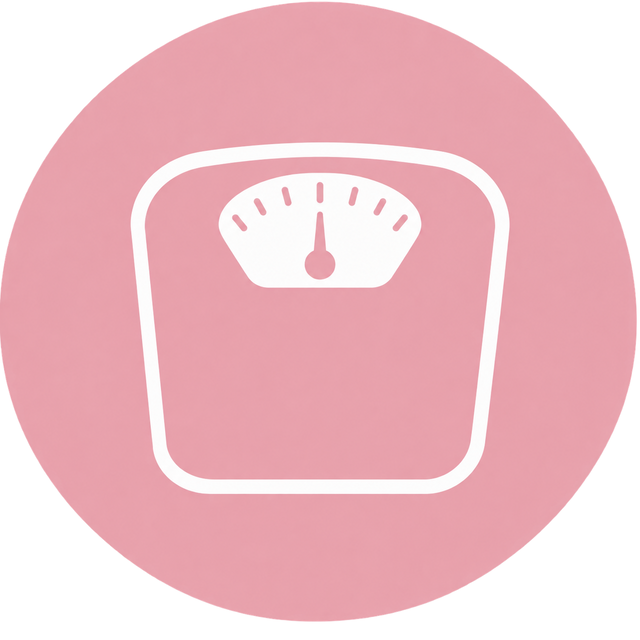
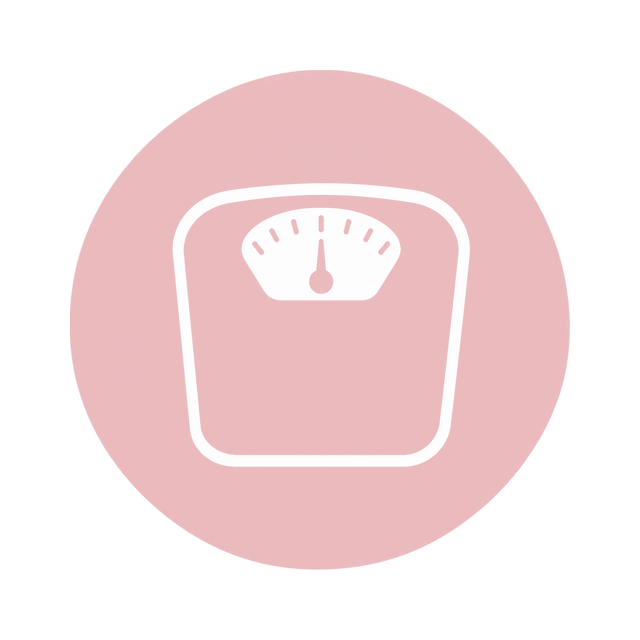
feat: 首頁第四張卡片改為 SPARK SCALE，調整下載頁 App 順序
- 首頁 SPARK SHAPE 卡片改為 SPARK SCALE
- SPARK SCALE 圖示改為白底、霧粉色，對齊其他 App
- 下載頁順序：WEAR、TENKI OUTFIT、SCALE、LIST、LOG、SHAPE、PLATE、DAY LIGHT

diff --git a/apps.html b/apps.html
@@ -214,80 +214,10 @@
       </div>
     </article>
 
-    <!-- SPARK SHAPE -->
-    <article class="app-entry" id="spark-shape">
-      <div class="app-entry__icon">
-        <img src="images/icon-spark-shape.png" alt="SPARK SHAPE 圖示" loading="lazy">
-      </div>
-      <div class="app-entry__body">
-        <h2 class="app-entry__name">SPARK SHAPE</h2>
-        <p class="app-entry__name-zh">心動曲線</p>
-        <div class="app-entry__controls">
-          <button class="app-drop__trigger" data-target="ss-story">背景故事 <svg viewBox="0 0 24 24" fill="none" aria-hidden="true"><path d="M6 9l6 6 6-6" stroke="currentColor" stroke-width="1.4" stroke-linecap="round" stroke-linejoin="round"/></svg></button>
-          <button class="app-drop__trigger" data-target="ss-feat">APP 亮點 <svg viewBox="0 0 24 24" fill="none" aria-hidden="true"><path d="M6 9l6 6 6-6" stroke="currentColor" stroke-width="1.4" stroke-linecap="round" stroke-linejoin="round"/></svg></button>
-          <button class="app-drop__trigger" data-target="ss-how">操作說明 <svg viewBox="0 0 24 24" fill="none" aria-hidden="true"><path d="M6 9l6 6 6-6" stroke="currentColor" stroke-width="1.4" stroke-linecap="round" stroke-linejoin="round"/></svg></button>
-          <button class="app-drop__trigger" data-target="ss-screens">照片預覽 <svg viewBox="0 0 24 24" fill="none" aria-hidden="true"><path d="M6 9l6 6 6-6" stroke="currentColor" stroke-width="1.4" stroke-linecap="round" stroke-linejoin="round"/></svg></button>
-          <a class="btn btn--download" href="https://drive.google.com/file/d/18k-2Ujq7NO5MSxU4GRnxtRjazRJaKm2D/view?usp=drive_link" target="_blank" rel="noopener">下載 <svg class="btn__icon btn__icon--arrow" viewBox="0 0 24 24" fill="none" aria-hidden="true"><path d="M12 5v14M12 19l-6-6M12 19l6-6" stroke="currentColor" stroke-width="1.4" stroke-linecap="round" stroke-linejoin="round"/></svg></a>
-        </div>
-        <div class="app-drop__panel" id="ss-story">
-          <p>隨著年紀增長，代謝逐漸趨緩，加上生活中上有老下有小，工作壓力接踵而至，體重管理似乎成了這階段最大的挑戰。</p>
-          <p>為了紀錄努力的痕跡，我一直有拍攝身形紀錄的習慣，但我發現，單純的照片散落在手機相冊裡，很難精確看出變化。如果有一個專屬的工具，能讓我把這些紀錄像日記一樣管理，甚至能直接「並排對比」，那該有多好？</p>
-          <p>於是，SPARK SHAPE 誕生了。</p>
-          <p>「看見進步，是堅持下去最好的動力。」</p>
-          <p>現在，我不再需要憑感覺猜測，只要叫出相簿，過去與現在的對比一覽無遺。這種清晰的軌跡，讓我更有動力去面對生活中的每一項挑戰。</p>
-        </div>
-        <div class="app-drop__panel" id="ss-feat">
-          <ul class="app-entry__features">
-            <li><strong>身形紀錄：</strong>定期拍攝並建檔，記錄下每一刻的身形變化。</li>
-            <li><strong>並排對比：</strong>透過系統化的對比功能，讓進步一目了然。</li>
-            <li><strong>精準比較：</strong>支援「正面對正面」、「側面對側面」的專業級比對，確保對比基準一致。</li>
-            <li><strong>局部細節：</strong>支援照片拉大、縮小，讓你能精準檢視局部的細微變化。</li>
-            <li><strong>隱私與安全：</strong>專屬的隱私儲存空間，讓你能安心記錄身體的每一個階段。</li>
-          </ul>
-        </div>
-        <div class="app-drop__panel" id="ss-how">
-          <ol class="app-how__steps">
-            <li><strong>拍攝紀錄：</strong>點選「新增」，拍攝下當下的身形照。</li>
-            <li><strong>輔助對位：</strong>使用內建的「對準框」功能，確保每次拍攝的角度與位置一致。</li>
-            <li><strong>時間軸管理：</strong>儲存後 APP 會自動整理成時間軸，進入「對比」模式即可進行並排比較。</li>
-            <li><strong>回顧與激勵：</strong>定期瀏覽進化後的對比圖，看見自己的努力，為下一個階段注入滿滿動力。</li>
-          </ol>
-        </div>
-        <div class="app-drop__panel" id="ss-screens">
-        <div class="app-screenshots">
-          <div class="app-screen">
-            <div class="app-screen__frame">
-              <div class="app-screen__body">
-                <img src="images/screen-spark-shape-1.jpg" alt="SPARK SHAPE 身材數據畫面" loading="lazy" style="width:100%;height:100%;object-fit:cover;display:block;">
-              </div>
-            </div>
-            <span class="app-screen__label">身材數據</span>
-          </div>
-          <div class="app-screen">
-            <div class="app-screen__frame">
-              <div class="app-screen__body">
-                <img src="images/screen-spark-shape-2.jpg" alt="SPARK SHAPE 身形時間軸畫面" loading="lazy" style="width:100%;height:100%;object-fit:cover;display:block;">
-              </div>
-            </div>
-            <span class="app-screen__label">身形時間軸</span>
-          </div>
-          <div class="app-screen">
-            <div class="app-screen__frame">
-              <div class="app-screen__body">
-                <img src="images/screen-spark-shape-3.jpg" alt="SPARK SHAPE 前後對比畫面" loading="lazy" style="width:100%;height:100%;object-fit:cover;display:block;">
-              </div>
-            </div>
-            <span class="app-screen__label">前後對比</span>
-          </div>
-        </div>
-        </div>
-      </div>
-    </article>
-
     <!-- SPARK SCALE -->
     <article class="app-entry" id="spark-fit">
       <div class="app-entry__icon">
-        <img src="images/icon-spark-scale.png" alt="SPARK SCALE 圖示" loading="lazy">
+        <img src="images/icon-spark-scale.png?v=2" alt="SPARK SCALE 圖示" loading="lazy">
       </div>
       <div class="app-entry__body">
         <h2 class="app-entry__name">SPARK SCALE</h2>
@@ -353,67 +283,69 @@
       </div>
     </article>
 
-    <!-- SPARK PLATE -->
-    <article class="app-entry" id="spark-plate">
+    <!-- SPARK LIST -->
+    <article class="app-entry" id="spark-list">
       <div class="app-entry__icon">
-        <img src="images/icon-spark-plate.png" alt="SPARK PLATE 圖示" loading="lazy">
+        <img src="images/icon-spark-list.png" alt="SPARK LIST 圖示" loading="lazy">
       </div>
       <div class="app-entry__body">
-        <h2 class="app-entry__name">SPARK PLATE</h2>
-        <p class="app-entry__name-zh">心動餐盤</p>
+        <h2 class="app-entry__name">SPARK LIST</h2>
+        <p class="app-entry__name-zh">心動清單</p>
         <div class="app-entry__controls">
-          <button class="app-drop__trigger" data-target="sp-story">背景故事 <svg viewBox="0 0 24 24" fill="none" aria-hidden="true"><path d="M6 9l6 6 6-6" stroke="currentColor" stroke-width="1.4" stroke-linecap="round" stroke-linejoin="round"/></svg></button>
-          <button class="app-drop__trigger" data-target="sp-feat">APP 亮點 <svg viewBox="0 0 24 24" fill="none" aria-hidden="true"><path d="M6 9l6 6 6-6" stroke="currentColor" stroke-width="1.4" stroke-linecap="round" stroke-linejoin="round"/></svg></button>
-          <button class="app-drop__trigger" data-target="sp-how">操作說明 <svg viewBox="0 0 24 24" fill="none" aria-hidden="true"><path d="M6 9l6 6 6-6" stroke="currentColor" stroke-width="1.4" stroke-linecap="round" stroke-linejoin="round"/></svg></button>
-          <button class="app-drop__trigger" data-target="sp-screens">照片預覽 <svg viewBox="0 0 24 24" fill="none" aria-hidden="true"><path d="M6 9l6 6 6-6" stroke="currentColor" stroke-width="1.4" stroke-linecap="round" stroke-linejoin="round"/></svg></button>
-          <a class="btn btn--download" href="https://drive.google.com/file/d/1GmZOloLU-6g7slm6ckxUuGZl8L4TzBY8/view?usp=drive_link" target="_blank" rel="noopener">下載 <svg class="btn__icon btn__icon--arrow" viewBox="0 0 24 24" fill="none" aria-hidden="true"><path d="M12 5v14M12 19l-6-6M12 19l6-6" stroke="currentColor" stroke-width="1.4" stroke-linecap="round" stroke-linejoin="round"/></svg></a>
+          <button class="app-drop__trigger" data-target="sli-story">背景故事 <svg viewBox="0 0 24 24" fill="none" aria-hidden="true"><path d="M6 9l6 6 6-6" stroke="currentColor" stroke-width="1.4" stroke-linecap="round" stroke-linejoin="round"/></svg></button>
+          <button class="app-drop__trigger" data-target="sli-feat">APP 亮點 <svg viewBox="0 0 24 24" fill="none" aria-hidden="true"><path d="M6 9l6 6 6-6" stroke="currentColor" stroke-width="1.4" stroke-linecap="round" stroke-linejoin="round"/></svg></button>
+          <button class="app-drop__trigger" data-target="sli-how">操作說明 <svg viewBox="0 0 24 24" fill="none" aria-hidden="true"><path d="M6 9l6 6 6-6" stroke="currentColor" stroke-width="1.4" stroke-linecap="round" stroke-linejoin="round"/></svg></button>
+          <button class="app-drop__trigger" data-target="sli-screens">照片預覽 <svg viewBox="0 0 24 24" fill="none" aria-hidden="true"><path d="M6 9l6 6 6-6" stroke="currentColor" stroke-width="1.4" stroke-linecap="round" stroke-linejoin="round"/></svg></button>
+          <a class="btn btn--download" href="https://drive.google.com/file/d/1mtNtZwOw0nj_PhkvnlRYuN0Hv3aLIXE6/view?usp=drive_link" target="_blank" rel="noopener">下載 <svg class="btn__icon btn__icon--arrow" viewBox="0 0 24 24" fill="none" aria-hidden="true"><path d="M12 5v14M12 19l-6-6M12 19l6-6" stroke="currentColor" stroke-width="1.4" stroke-linecap="round" stroke-linejoin="round"/></svg></a>
         </div>
-        <div class="app-drop__panel" id="sp-story">
-          <p>「明明覺得自己吃得很乖，為什麼體重還是不聽話？」</p>
-          <p>相信這句話，是許多人在體重管理路上共同的困擾。過去，我也曾興致勃勃地下載各種計算卡路里的 APP，但很快就發現：我不想被冷冰冰的數字追著跑，我只是想知道，我今天到底吃了些什麼？</p>
-          <p>「餐盤，是一日生活的誠實鏡子。」</p>
-          <p>為了擺脫數字壓力，我打造了 SPARK PLATE。它不追求精準的卡路里，而是用直觀的「九宮格」排列出你的一日三餐。一眼望過去，吃得好不好、原型食物佔比高不高，全都在畫面上攤開來——那些偶爾的「小放縱」瞬間無所遁形，讓你在下一餐更有意識地做出更好的選擇。</p>
+        <div class="app-drop__panel" id="sli-story">
+          <p>「這個好想要喔……」滑手機滑到一半，看到喜歡的東西，手就不自覺點下「加入購物車」。</p>
+          <p>我也是這樣，常常一時衝動下單，東西到貨後才發現，衝動來得快，退得也快——熱情往往撐不過拆箱那一刻。</p>
+          <p>於是，我打造了 SPARK LIST。這是一份專屬於「生火單品」的口袋清單，不管是衣服、包包、鞋子、電器，甚至是車子、遊戲機，通通可以先記下來，讓自己有個緩衝的空間。</p>
+          <p>加入清單時，設定一段冷靜期，再勾選幾項理性的購買條件——只有時間到了、條件也滿足，單品才會真正解鎖。等待的過程裡，每一次忍住不買，都會累積一點忍術點數，練成忍術達人；如果最後還是決定入手，也會有一場專屬的「畢業」小慶祝。SPARK LIST，陪你把每一次心動，都留給真正值得的那一件。</p>
         </div>
-        <div class="app-drop__panel" id="sp-feat">
+        <div class="app-drop__panel" id="sli-feat">
           <ul class="app-entry__features">
-            <li><strong>直覺飲食紀錄：</strong>拍照即可輕鬆紀錄三餐，讓吃飯這件事回歸單純的快樂。</li>
-            <li><strong>飲食習慣回顧：</strong>透過日誌檢視長期飲食模式，察覺容易被忽略的習慣。</li>
-            <li><strong>視覺化分享：</strong>支援截圖與 3 至 21 宮格組圖輸出，將你的飲食成果一鍵分享給親友，成為彼此的健康啦啦隊。</li>
+            <li><strong>生火清單：</strong>不限類別，衣服、包包、鞋子、電器、車子、遊戲機都能記錄下來。</li>
+            <li><strong>冷靜期倒數：</strong>自訂天數，讓一時衝動有時間慢慢降溫。</li>
+            <li><strong>理性條件檢核：</strong>內建購買條件，至少勾選 3 項通過理性把關，才有機會解鎖。</li>
+            <li><strong>忍術點數養成：</strong>忍住不買就能累積忍術點數，集滿升級忍術達人；買下則迎來畢業儀式。</li>
           </ul>
         </div>
-        <div class="app-drop__panel" id="sp-how">
+        <div class="app-drop__panel" id="sli-how">
           <ol class="app-how__steps">
-            <li><strong>隨手紀錄：</strong>吃飯前拍攝照片，或從相簿中上傳餐點。</li>
-            <li><strong>加入標註：</strong>為餐點添加心情備註，並評估等級（標註是否為原型食物），讓紀錄更具參考價值。</li>
-            <li><strong>瀏覽九宮格：</strong>系統將一日三餐自動排列成清晰的九宮格，讓你一眼看見飲食品質。</li>
-            <li><strong>組圖輸出：</strong>隨時截圖或選取 1 到 7 天的紀錄，製作成精美的拼貼組圖，分享你的健康生活方式。</li>
+            <li>發現生火的單品，拍照或輸入資訊，選擇分類加入清單。</li>
+            <li>設定冷靜期天數，並勾選符合的購買條件（至少 3 項）。</li>
+            <li>等待期間，隨時可以按下「忍住不買」，累積忍術點數。</li>
+            <li>冷靜期倒數歸零且條件滿足後，單品自動從冷靜區跳到解鎖區，跳出恭喜視窗。</li>
+            <li>決定入手就按下「已購買」，完成畢業儀式，單品自動從清單移除。</li>
           </ol>
         </div>
-        <div class="app-drop__panel" id="sp-screens">
+        <div class="app-drop__panel" id="sli-screens">
         <div class="app-screenshots">
           <div class="app-screen">
             <div class="app-screen__frame">
               <div class="app-screen__body">
-                <img src="images/screen-spark-plate-1.jpg" alt="SPARK PLATE 餐點記錄牆畫面" loading="lazy" style="width:100%;height:100%;object-fit:cover;display:block;">
+                <img src="images/screen-spark-list-2.png" alt="SPARK LIST 冷靜區畫面" loading="lazy" style="width:100%;height:100%;object-fit:cover;display:block;">
               </div>
             </div>
-            <span class="app-screen__label">餐點記錄牆</span>
+            <span class="app-screen__label">冷靜區</span>
           </div>
           <div class="app-screen">
             <div class="app-screen__frame">
               <div class="app-screen__body">
-                <img src="images/screen-spark-plate-2.jpg" alt="SPARK PLATE 餐點詳情畫面" loading="lazy" style="width:100%;height:100%;object-fit:cover;display:block;">
+                <img src="images/screen-spark-list-3.png" alt="SPARK LIST 解鎖區畫面" loading="lazy" style="width:100%;height:100%;object-fit:cover;display:block;">
               </div>
             </div>
-            <span class="app-screen__label">餐點詳情</span>
+            <span class="app-screen__label">解鎖區</span>
           </div>
           <div class="app-screen">
             <div class="app-screen__frame">
               <div class="app-screen__body">
-                <img src="images/screen-spark-plate-3.jpg" alt="SPARK PLATE 每日打卡畫面" loading="lazy" style="width:100%;height:100%;object-fit:cover;display:block;">
+                <img src="images/screen-spark-list-1.png" alt="SPARK LIST 我的畫面" loading="lazy" style="width:100%;height:100%;object-fit:cover;display:block;">
               </div>
             </div>
-            <span class="app-screen__label">每日打卡</span>
+            <span class="app-screen__label">我的・忍術點數</span>
           </div>
         </div>
         </div>
@@ -488,69 +420,137 @@
       </div>
     </article>
 
-    <!-- SPARK LIST -->
-    <article class="app-entry" id="spark-list">
+    <!-- SPARK SHAPE -->
+    <article class="app-entry" id="spark-shape">
       <div class="app-entry__icon">
-        <img src="images/icon-spark-list.png" alt="SPARK LIST 圖示" loading="lazy">
+        <img src="images/icon-spark-shape.png" alt="SPARK SHAPE 圖示" loading="lazy">
       </div>
       <div class="app-entry__body">
-        <h2 class="app-entry__name">SPARK LIST</h2>
-        <p class="app-entry__name-zh">心動清單</p>
+        <h2 class="app-entry__name">SPARK SHAPE</h2>
+        <p class="app-entry__name-zh">心動曲線</p>
         <div class="app-entry__controls">
-          <button class="app-drop__trigger" data-target="sli-story">背景故事 <svg viewBox="0 0 24 24" fill="none" aria-hidden="true"><path d="M6 9l6 6 6-6" stroke="currentColor" stroke-width="1.4" stroke-linecap="round" stroke-linejoin="round"/></svg></button>
-          <button class="app-drop__trigger" data-target="sli-feat">APP 亮點 <svg viewBox="0 0 24 24" fill="none" aria-hidden="true"><path d="M6 9l6 6 6-6" stroke="currentColor" stroke-width="1.4" stroke-linecap="round" stroke-linejoin="round"/></svg></button>
-          <button class="app-drop__trigger" data-target="sli-how">操作說明 <svg viewBox="0 0 24 24" fill="none" aria-hidden="true"><path d="M6 9l6 6 6-6" stroke="currentColor" stroke-width="1.4" stroke-linecap="round" stroke-linejoin="round"/></svg></button>
-          <button class="app-drop__trigger" data-target="sli-screens">照片預覽 <svg viewBox="0 0 24 24" fill="none" aria-hidden="true"><path d="M6 9l6 6 6-6" stroke="currentColor" stroke-width="1.4" stroke-linecap="round" stroke-linejoin="round"/></svg></button>
-          <a class="btn btn--download" href="https://drive.google.com/file/d/1mtNtZwOw0nj_PhkvnlRYuN0Hv3aLIXE6/view?usp=drive_link" target="_blank" rel="noopener">下載 <svg class="btn__icon btn__icon--arrow" viewBox="0 0 24 24" fill="none" aria-hidden="true"><path d="M12 5v14M12 19l-6-6M12 19l6-6" stroke="currentColor" stroke-width="1.4" stroke-linecap="round" stroke-linejoin="round"/></svg></a>
+          <button class="app-drop__trigger" data-target="ss-story">背景故事 <svg viewBox="0 0 24 24" fill="none" aria-hidden="true"><path d="M6 9l6 6 6-6" stroke="currentColor" stroke-width="1.4" stroke-linecap="round" stroke-linejoin="round"/></svg></button>
+          <button class="app-drop__trigger" data-target="ss-feat">APP 亮點 <svg viewBox="0 0 24 24" fill="none" aria-hidden="true"><path d="M6 9l6 6 6-6" stroke="currentColor" stroke-width="1.4" stroke-linecap="round" stroke-linejoin="round"/></svg></button>
+          <button class="app-drop__trigger" data-target="ss-how">操作說明 <svg viewBox="0 0 24 24" fill="none" aria-hidden="true"><path d="M6 9l6 6 6-6" stroke="currentColor" stroke-width="1.4" stroke-linecap="round" stroke-linejoin="round"/></svg></button>
+          <button class="app-drop__trigger" data-target="ss-screens">照片預覽 <svg viewBox="0 0 24 24" fill="none" aria-hidden="true"><path d="M6 9l6 6 6-6" stroke="currentColor" stroke-width="1.4" stroke-linecap="round" stroke-linejoin="round"/></svg></button>
+          <a class="btn btn--download" href="https://drive.google.com/file/d/18k-2Ujq7NO5MSxU4GRnxtRjazRJaKm2D/view?usp=drive_link" target="_blank" rel="noopener">下載 <svg class="btn__icon btn__icon--arrow" viewBox="0 0 24 24" fill="none" aria-hidden="true"><path d="M12 5v14M12 19l-6-6M12 19l6-6" stroke="currentColor" stroke-width="1.4" stroke-linecap="round" stroke-linejoin="round"/></svg></a>
         </div>
-        <div class="app-drop__panel" id="sli-story">
-          <p>「這個好想要喔……」滑手機滑到一半，看到喜歡的東西，手就不自覺點下「加入購物車」。</p>
-          <p>我也是這樣，常常一時衝動下單，東西到貨後才發現，衝動來得快，退得也快——熱情往往撐不過拆箱那一刻。</p>
-          <p>於是，我打造了 SPARK LIST。這是一份專屬於「生火單品」的口袋清單，不管是衣服、包包、鞋子、電器，甚至是車子、遊戲機，通通可以先記下來，讓自己有個緩衝的空間。</p>
-          <p>加入清單時，設定一段冷靜期，再勾選幾項理性的購買條件——只有時間到了、條件也滿足，單品才會真正解鎖。等待的過程裡，每一次忍住不買，都會累積一點忍術點數，練成忍術達人；如果最後還是決定入手，也會有一場專屬的「畢業」小慶祝。SPARK LIST，陪你把每一次心動，都留給真正值得的那一件。</p>
+        <div class="app-drop__panel" id="ss-story">
+          <p>隨著年紀增長，代謝逐漸趨緩，加上生活中上有老下有小，工作壓力接踵而至，體重管理似乎成了這階段最大的挑戰。</p>
+          <p>為了紀錄努力的痕跡，我一直有拍攝身形紀錄的習慣，但我發現，單純的照片散落在手機相冊裡，很難精確看出變化。如果有一個專屬的工具，能讓我把這些紀錄像日記一樣管理，甚至能直接「並排對比」，那該有多好？</p>
+          <p>於是，SPARK SHAPE 誕生了。</p>
+          <p>「看見進步，是堅持下去最好的動力。」</p>
+          <p>現在，我不再需要憑感覺猜測，只要叫出相簿，過去與現在的對比一覽無遺。這種清晰的軌跡，讓我更有動力去面對生活中的每一項挑戰。</p>
         </div>
-        <div class="app-drop__panel" id="sli-feat">
+        <div class="app-drop__panel" id="ss-feat">
           <ul class="app-entry__features">
-            <li><strong>生火清單：</strong>不限類別，衣服、包包、鞋子、電器、車子、遊戲機都能記錄下來。</li>
-            <li><strong>冷靜期倒數：</strong>自訂天數，讓一時衝動有時間慢慢降溫。</li>
-            <li><strong>理性條件檢核：</strong>內建購買條件，至少勾選 3 項通過理性把關，才有機會解鎖。</li>
-            <li><strong>忍術點數養成：</strong>忍住不買就能累積忍術點數，集滿升級忍術達人；買下則迎來畢業儀式。</li>
+            <li><strong>身形紀錄：</strong>定期拍攝並建檔，記錄下每一刻的身形變化。</li>
+            <li><strong>並排對比：</strong>透過系統化的對比功能，讓進步一目了然。</li>
+            <li><strong>精準比較：</strong>支援「正面對正面」、「側面對側面」的專業級比對，確保對比基準一致。</li>
+            <li><strong>局部細節：</strong>支援照片拉大、縮小，讓你能精準檢視局部的細微變化。</li>
+            <li><strong>隱私與安全：</strong>專屬的隱私儲存空間，讓你能安心記錄身體的每一個階段。</li>
           </ul>
         </div>
-        <div class="app-drop__panel" id="sli-how">
+        <div class="app-drop__panel" id="ss-how">
           <ol class="app-how__steps">
-            <li>發現生火的單品，拍照或輸入資訊，選擇分類加入清單。</li>
-            <li>設定冷靜期天數，並勾選符合的購買條件（至少 3 項）。</li>
-            <li>等待期間，隨時可以按下「忍住不買」，累積忍術點數。</li>
-            <li>冷靜期倒數歸零且條件滿足後，單品自動從冷靜區跳到解鎖區，跳出恭喜視窗。</li>
-            <li>決定入手就按下「已購買」，完成畢業儀式，單品自動從清單移除。</li>
+            <li><strong>拍攝紀錄：</strong>點選「新增」，拍攝下當下的身形照。</li>
+            <li><strong>輔助對位：</strong>使用內建的「對準框」功能，確保每次拍攝的角度與位置一致。</li>
+            <li><strong>時間軸管理：</strong>儲存後 APP 會自動整理成時間軸，進入「對比」模式即可進行並排比較。</li>
+            <li><strong>回顧與激勵：</strong>定期瀏覽進化後的對比圖，看見自己的努力，為下一個階段注入滿滿動力。</li>
           </ol>
         </div>
-        <div class="app-drop__panel" id="sli-screens">
+        <div class="app-drop__panel" id="ss-screens">
         <div class="app-screenshots">
           <div class="app-screen">
             <div class="app-screen__frame">
               <div class="app-screen__body">
-                <img src="images/screen-spark-list-2.png" alt="SPARK LIST 冷靜區畫面" loading="lazy" style="width:100%;height:100%;object-fit:cover;display:block;">
+                <img src="images/screen-spark-shape-1.jpg" alt="SPARK SHAPE 身材數據畫面" loading="lazy" style="width:100%;height:100%;object-fit:cover;display:block;">
               </div>
             </div>
-            <span class="app-screen__label">冷靜區</span>
+            <span class="app-screen__label">身材數據</span>
           </div>
           <div class="app-screen">
             <div class="app-screen__frame">
               <div class="app-screen__body">
-                <img src="images/screen-spark-list-3.png" alt="SPARK LIST 解鎖區畫面" loading="lazy" style="width:100%;height:100%;object-fit:cover;display:block;">
+                <img src="images/screen-spark-shape-2.jpg" alt="SPARK SHAPE 身形時間軸畫面" loading="lazy" style="width:100%;height:100%;object-fit:cover;display:block;">
               </div>
             </div>
-            <span class="app-screen__label">解鎖區</span>
+            <span class="app-screen__label">身形時間軸</span>
           </div>
           <div class="app-screen">
             <div class="app-screen__frame">
               <div class="app-screen__body">
-                <img src="images/screen-spark-list-1.png" alt="SPARK LIST 我的畫面" loading="lazy" style="width:100%;height:100%;object-fit:cover;display:block;">
+                <img src="images/screen-spark-shape-3.jpg" alt="SPARK SHAPE 前後對比畫面" loading="lazy" style="width:100%;height:100%;object-fit:cover;display:block;">
               </div>
             </div>
-            <span class="app-screen__label">我的・忍術點數</span>
+            <span class="app-screen__label">前後對比</span>
+          </div>
+        </div>
+        </div>
+      </div>
+    </article>
+
+    <!-- SPARK PLATE -->
+    <article class="app-entry" id="spark-plate">
+      <div class="app-entry__icon">
+        <img src="images/icon-spark-plate.png" alt="SPARK PLATE 圖示" loading="lazy">
+      </div>
+      <div class="app-entry__body">
+        <h2 class="app-entry__name">SPARK PLATE</h2>
+        <p class="app-entry__name-zh">心動餐盤</p>
+        <div class="app-entry__controls">
+          <button class="app-drop__trigger" data-target="sp-story">背景故事 <svg viewBox="0 0 24 24" fill="none" aria-hidden="true"><path d="M6 9l6 6 6-6" stroke="currentColor" stroke-width="1.4" stroke-linecap="round" stroke-linejoin="round"/></svg></button>
+          <button class="app-drop__trigger" data-target="sp-feat">APP 亮點 <svg viewBox="0 0 24 24" fill="none" aria-hidden="true"><path d="M6 9l6 6 6-6" stroke="currentColor" stroke-width="1.4" stroke-linecap="round" stroke-linejoin="round"/></svg></button>
+          <button class="app-drop__trigger" data-target="sp-how">操作說明 <svg viewBox="0 0 24 24" fill="none" aria-hidden="true"><path d="M6 9l6 6 6-6" stroke="currentColor" stroke-width="1.4" stroke-linecap="round" stroke-linejoin="round"/></svg></button>
+          <button class="app-drop__trigger" data-target="sp-screens">照片預覽 <svg viewBox="0 0 24 24" fill="none" aria-hidden="true"><path d="M6 9l6 6 6-6" stroke="currentColor" stroke-width="1.4" stroke-linecap="round" stroke-linejoin="round"/></svg></button>
+          <a class="btn btn--download" href="https://drive.google.com/file/d/1GmZOloLU-6g7slm6ckxUuGZl8L4TzBY8/view?usp=drive_link" target="_blank" rel="noopener">下載 <svg class="btn__icon btn__icon--arrow" viewBox="0 0 24 24" fill="none" aria-hidden="true"><path d="M12 5v14M12 19l-6-6M12 19l6-6" stroke="currentColor" stroke-width="1.4" stroke-linecap="round" stroke-linejoin="round"/></svg></a>
+        </div>
+        <div class="app-drop__panel" id="sp-story">
+          <p>「明明覺得自己吃得很乖，為什麼體重還是不聽話？」</p>
+          <p>相信這句話，是許多人在體重管理路上共同的困擾。過去，我也曾興致勃勃地下載各種計算卡路里的 APP，但很快就發現：我不想被冷冰冰的數字追著跑，我只是想知道，我今天到底吃了些什麼？</p>
+          <p>「餐盤，是一日生活的誠實鏡子。」</p>
+          <p>為了擺脫數字壓力，我打造了 SPARK PLATE。它不追求精準的卡路里，而是用直觀的「九宮格」排列出你的一日三餐。一眼望過去，吃得好不好、原型食物佔比高不高，全都在畫面上攤開來——那些偶爾的「小放縱」瞬間無所遁形，讓你在下一餐更有意識地做出更好的選擇。</p>
+        </div>
+        <div class="app-drop__panel" id="sp-feat">
+          <ul class="app-entry__features">
+            <li><strong>直覺飲食紀錄：</strong>拍照即可輕鬆紀錄三餐，讓吃飯這件事回歸單純的快樂。</li>
+            <li><strong>飲食習慣回顧：</strong>透過日誌檢視長期飲食模式，察覺容易被忽略的習慣。</li>
+            <li><strong>視覺化分享：</strong>支援截圖與 3 至 21 宮格組圖輸出，將你的飲食成果一鍵分享給親友，成為彼此的健康啦啦隊。</li>
+          </ul>
+        </div>
+        <div class="app-drop__panel" id="sp-how">
+          <ol class="app-how__steps">
+            <li><strong>隨手紀錄：</strong>吃飯前拍攝照片，或從相簿中上傳餐點。</li>
+            <li><strong>加入標註：</strong>為餐點添加心情備註，並評估等級（標註是否為原型食物），讓紀錄更具參考價值。</li>
+            <li><strong>瀏覽九宮格：</strong>系統將一日三餐自動排列成清晰的九宮格，讓你一眼看見飲食品質。</li>
+            <li><strong>組圖輸出：</strong>隨時截圖或選取 1 到 7 天的紀錄，製作成精美的拼貼組圖，分享你的健康生活方式。</li>
+          </ol>
+        </div>
+        <div class="app-drop__panel" id="sp-screens">
+        <div class="app-screenshots">
+          <div class="app-screen">
+            <div class="app-screen__frame">
+              <div class="app-screen__body">
+                <img src="images/screen-spark-plate-1.jpg" alt="SPARK PLATE 餐點記錄牆畫面" loading="lazy" style="width:100%;height:100%;object-fit:cover;display:block;">
+              </div>
+            </div>
+            <span class="app-screen__label">餐點記錄牆</span>
+          </div>
+          <div class="app-screen">
+            <div class="app-screen__frame">
+              <div class="app-screen__body">
+                <img src="images/screen-spark-plate-2.jpg" alt="SPARK PLATE 餐點詳情畫面" loading="lazy" style="width:100%;height:100%;object-fit:cover;display:block;">
+              </div>
+            </div>
+            <span class="app-screen__label">餐點詳情</span>
+          </div>
+          <div class="app-screen">
+            <div class="app-screen__frame">
+              <div class="app-screen__body">
+                <img src="images/screen-spark-plate-3.jpg" alt="SPARK PLATE 每日打卡畫面" loading="lazy" style="width:100%;height:100%;object-fit:cover;display:block;">
+              </div>
+            </div>
+            <span class="app-screen__label">每日打卡</span>
           </div>
         </div>
         </div>

diff --git a/index.html b/index.html
@@ -113,12 +113,12 @@
 
       <article class="card">
         <div class="card__icon">
-          <img src="images/icon-spark-shape.png" alt="SPARK SHAPE 圖示" loading="lazy">
+          <img src="images/icon-spark-scale.png?v=2" alt="SPARK SCALE 圖示" loading="lazy">
         </div>
-        <h3 class="card__name">SPARK SHAPE</h3>
-        <p class="card__name-zh">心動曲線</p>
-        <p class="card__tagline"><strong>見證那個持續變好的自己。</strong><br>用影像記錄身體的細微變化，透過前後對比，看見每一滴努力堆疊出的珍貴成長。</p>
-        <a class="btn btn--download" href="https://drive.google.com/uc?export=download&id=18k-2Ujq7NO5MSxU4GRnxtRjazRJaKm2D" target="_blank" rel="noopener">
+        <h3 class="card__name">SPARK SCALE</h3>
+        <p class="card__name-zh">心動體重</p>
+        <p class="card__tagline"><strong>數據，是為了讓我們更了解自己。</strong><br>直觀管理體重、體脂等身體數據，還能分析身型、給予穿搭靈感，陪你看見每一點進步。</p>
+        <a class="btn btn--download" href="https://drive.google.com/file/d/11vwLRjsCMscct-Chwd19m5UvumTKdB43/view?usp=drive_link" target="_blank" rel="noopener">
           下載
         </a>
       </article>
